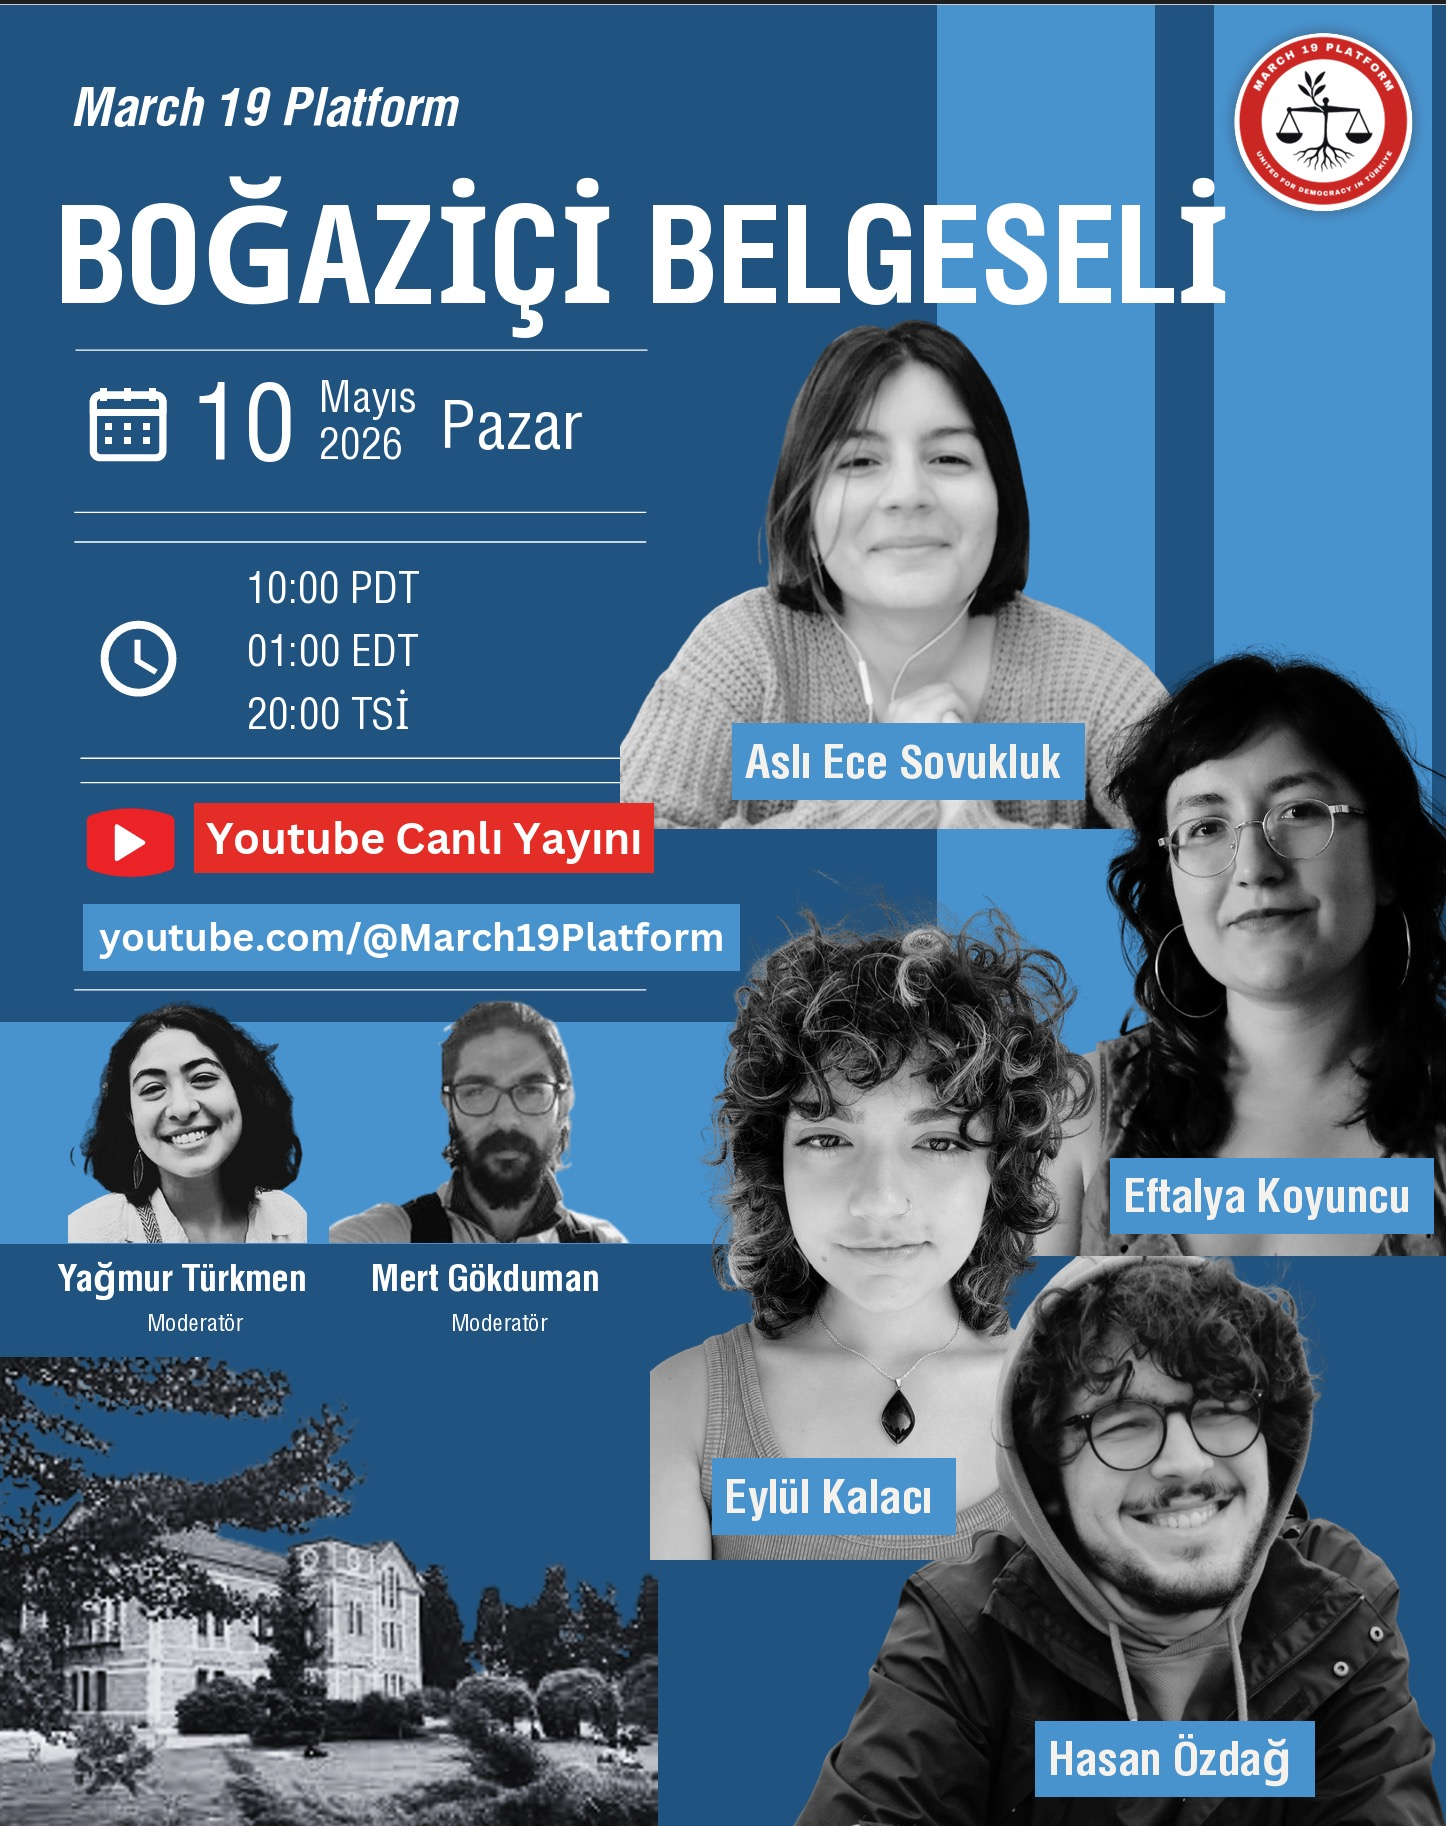
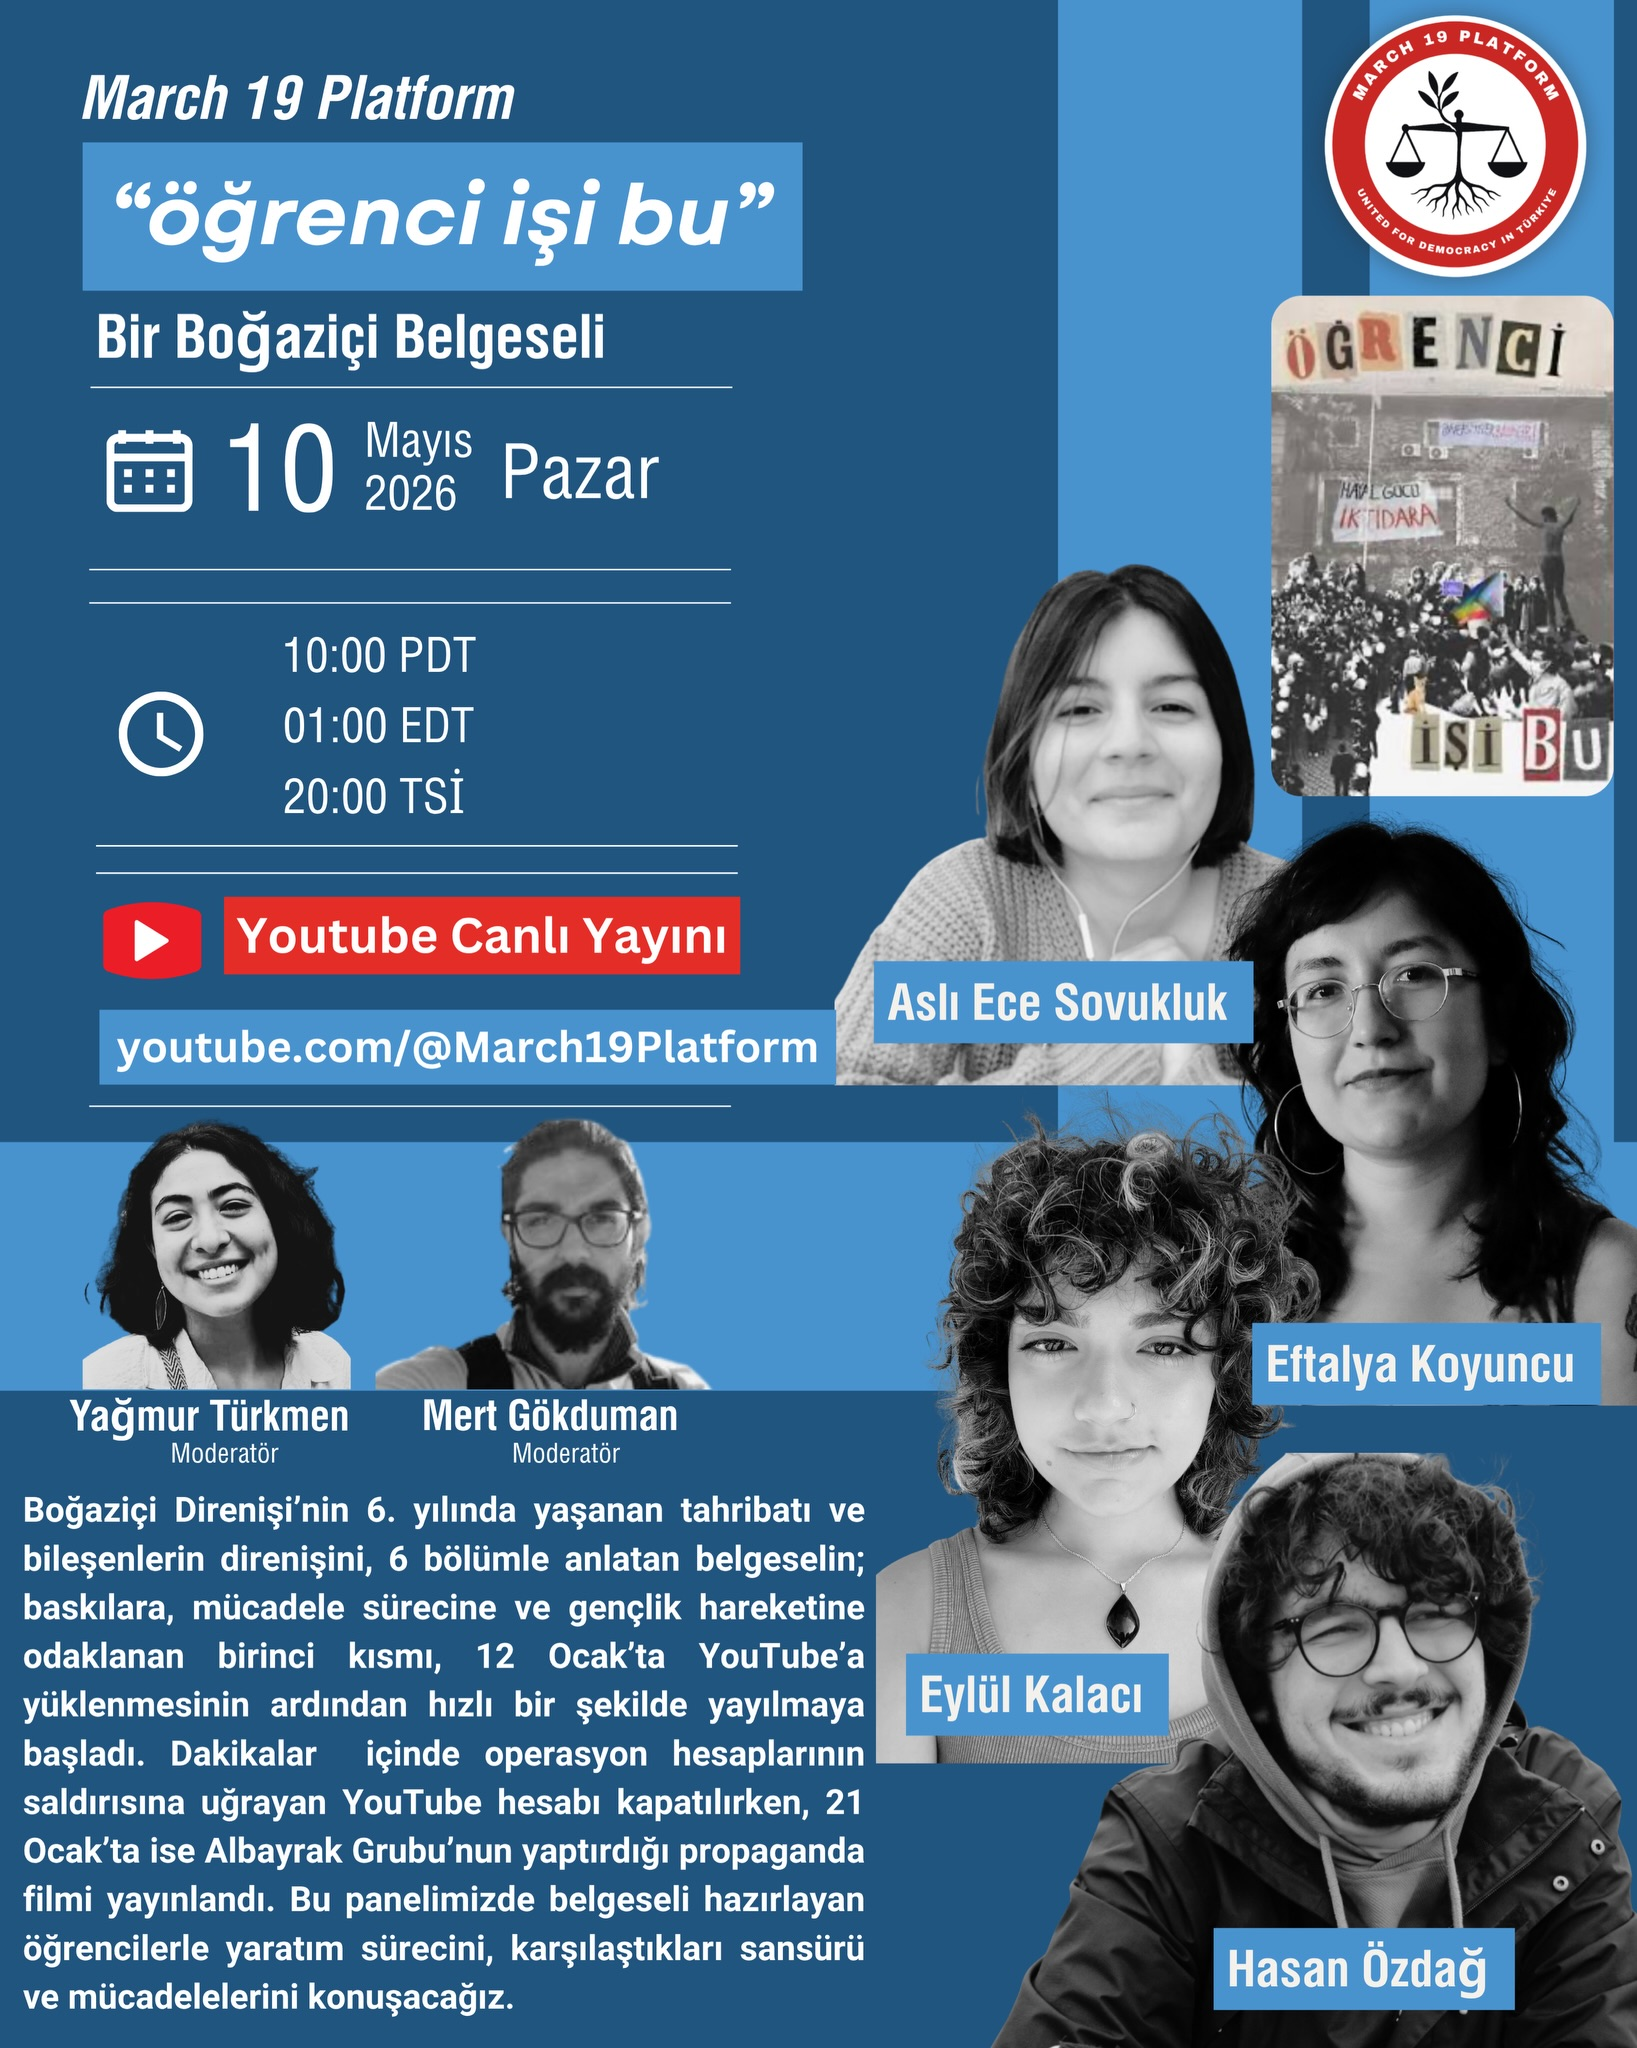
Mark Tuba Torun and Öğrenci İşi Bu panels as aired, add Furkan Karabay (May 31) upcoming

diff --git a/content/videos/2026-05-10.md b/content/videos/2026-05-10.md
@@ -1,11 +1,11 @@
 ---
-title: "Upcoming Panel Discussion"
+title: "Öğrenci İşi Bu - Bir Boğaziçi Belgeseli"
 date: 2026-05-10
-youtubeId: ""
-upcoming: true
+youtubeId: "0HJIviuIfQU"
+upcoming: false
 poster: "/assets/videos/posters/2026-05-10.jpg"
-panelist: ""
-description: "Upcoming panel discussion on May 10, 2026."
+panelist: "Aslı Ece Sovukluk, Eftalya Koyuncu, Eylül Kalacı & Hasan Özdağ"
+description: "Panel discussion on Öğrenci İşi Bu - Bir Boğaziçi Belgeseli."
 ---
 
-Upcoming panel discussion on May 10, 2026.
+Panel discussion on Öğrenci İşi Bu - Bir Boğaziçi Belgeseli with Aslı Ece Sovukluk, Eftalya Koyuncu, Eylül Kalacı, and Hasan Özdağ. Moderated by Yağmur Türkmen and Mert Gökduman.

diff --git a/content/videos/2026-05-03.md b/content/videos/2026-05-03.md
@@ -1,11 +1,11 @@
 ---
-title: "Upcoming Panel Discussion"
+title: "Tuba Torun"
 date: 2026-05-03
-youtubeId: ""
-upcoming: true
+youtubeId: "lZS8_r6Qe8I"
+upcoming: false
 poster: "/assets/videos/posters/2026-05-03.jpg"
-panelist: ""
-description: "Upcoming panel discussion on May 3, 2026."
+panelist: "Tuba Torun"
+description: "Panel discussion with Tuba Torun on May 3, 2026."
 ---
 
-Upcoming panel discussion on May 3, 2026.
+Panel discussion with Tuba Torun on May 3, 2026.

diff --git a/content/videos/2026-05-31.md b/content/videos/2026-05-31.md
@@ -1,0 +1,11 @@
+---
+title: "Furkan Karabay"
+date: 2026-05-31
+youtubeId: ""
+upcoming: true
+poster: "/assets/videos/posters/2026-05-31.jpg"
+panelist: "Furkan Karabay"
+description: "Upcoming panel discussion with Furkan Karabay on May 31, 2026."
+---
+
+Upcoming panel discussion with journalist and author Furkan Karabay on May 31, 2026. Moderated by Pınar Aksoy and Münire Nilson.
